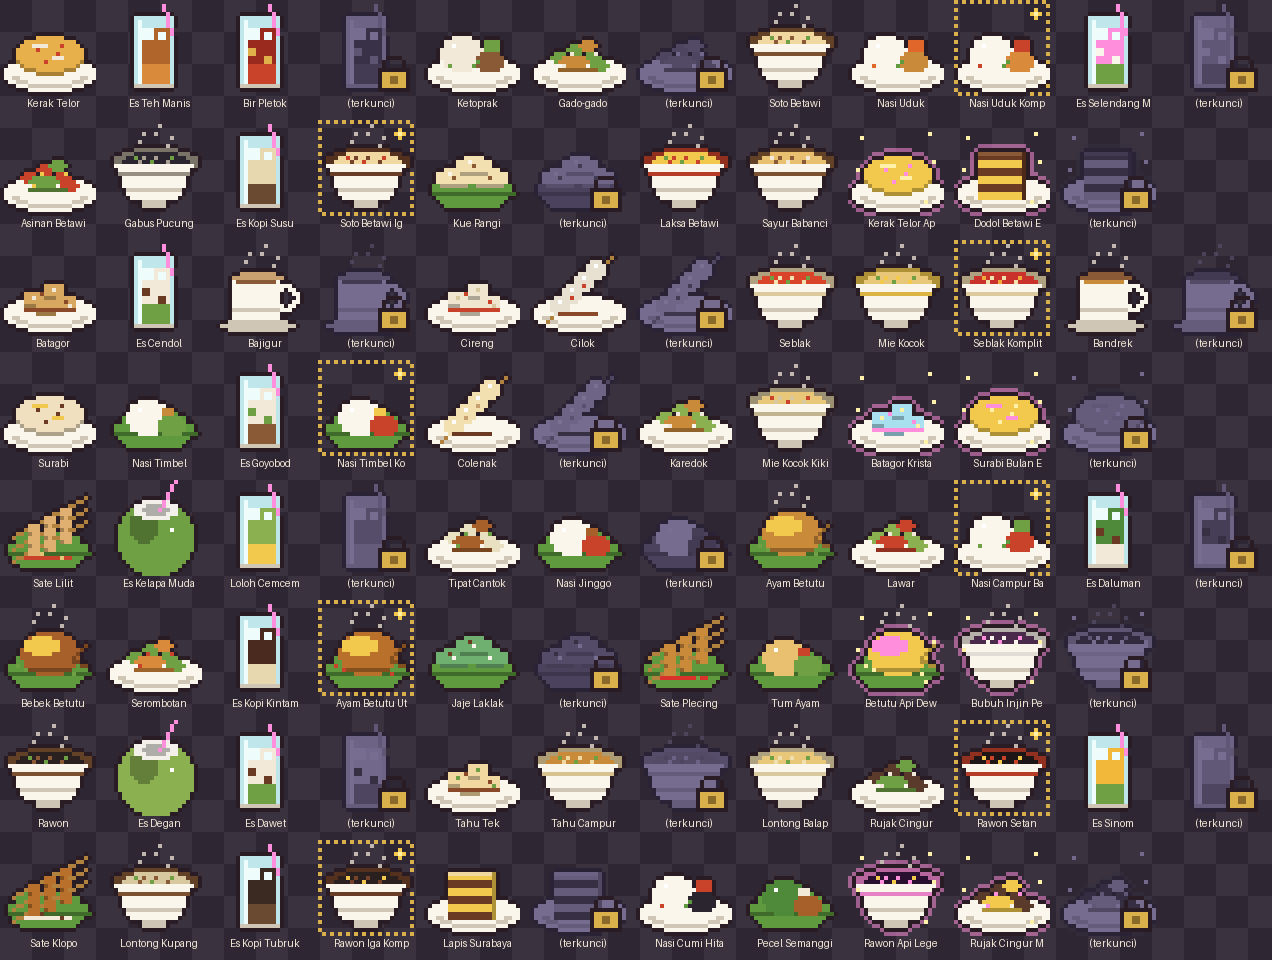
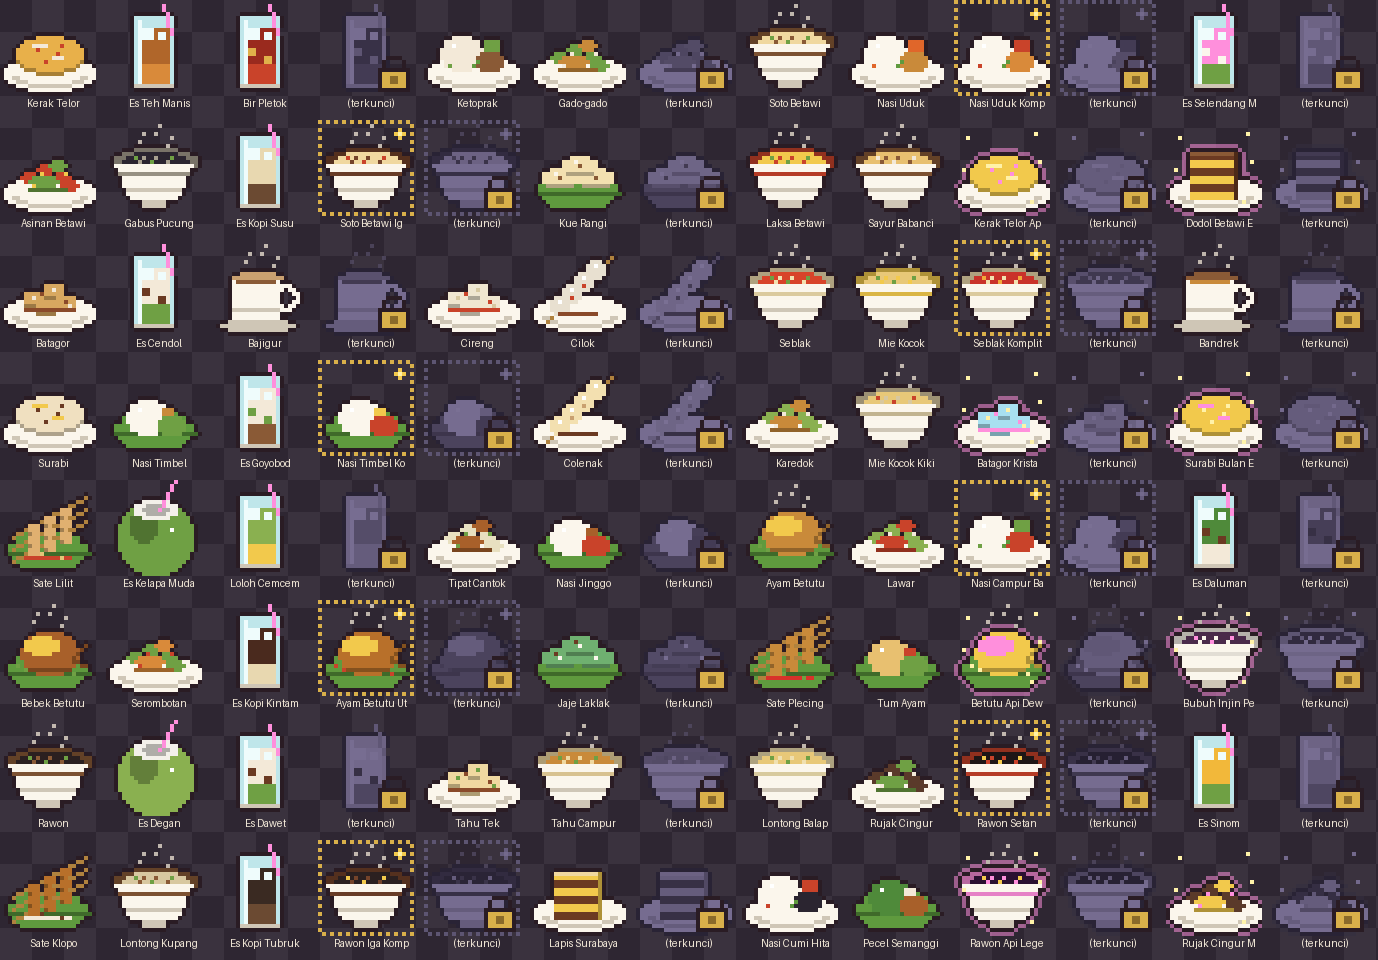
Lock all special and legendary menu items behind coins
Claude-Session: https://claude.ai/code/session_01BZFs89YAfkHhEzxPnCnTBU

diff --git a/tools/sprites/menu.py b/tools/sprites/menu.py
@@ -2,7 +2,7 @@
 
 Each stage unlocks new dishes automatically, and also offers "locked" dishes the
 player buys with coins. Stage 3+ adds a special (spesial) dish, stage 5 a
-legendary one. Combos give a bonus when both items are on the menu.
+legendary one; specials and legendaries are always coin-locked. Combos give a bonus when both items are on the menu.
 
 Fields per item:
   id, name, kind (makanan|minuman|dessert), stage, unlock ("stage" | "coins"),
@@ -16,6 +16,8 @@ M, D, S = "makanan", "minuman", "dessert"
 
 
 def item(id_, name, kind, stage, icon, unlock="stage", tier="biasa"):
+    if tier != "biasa":                     # menu spesial & legendaris selalu dibuka pakai koin
+        unlock = "coins"
     return {"id": id_, "name": name, "kind": kind, "stage": stage, "unlock": unlock,
             "tier": tier, "icon": icon}
 

diff --git a/tools/sprites/food.py b/tools/sprites/food.py
@@ -285,9 +285,9 @@ def generate():
     data = {"stage_rules": {
         "1": "1 makanan + 1 minuman terbuka; 1 minuman terkunci (koin)",
         "2": "+1 makanan; 1 makanan terkunci",
-        "3": "+2 makanan + 1 menu spesial; 1 minuman terkunci",
-        "4": "+2 makanan + 1 minuman + 1 menu spesial; 1 dessert terkunci",
-        "5": "+2 makanan + 1 menu legendaris; 1 menu legendaris terkunci",
+        "3": "+2 makanan; terkunci: 1 menu spesial + 1 minuman",
+        "4": "+2 makanan + 1 minuman; terkunci: 1 menu spesial + 1 dessert",
+        "5": "+2 makanan; terkunci: 2 menu legendaris",
     }, "cities": {}}
     rows, labels = [], []
     for ci, city in enumerate(CITY_ORDER):

diff --git a/assets/README.md b/assets/README.md
@@ -38,9 +38,11 @@ Aturan buka menu (sama untuk semua kota):
 |---|---|---|
 | 1 Gerobak | 1 makanan + 1 minuman | 1 minuman |
 | 2 Warung | +1 makanan | 1 makanan |
-| 3 Kedai | +2 makanan + 1 menu **spesial** | 1 minuman |
-| 4 Resto | +2 makanan + 1 minuman + 1 menu **spesial** | 1 dessert |
-| 5 Istana | +2 makanan + 1 menu **legendaris** | 1 menu legendaris |
+| 3 Kedai | +2 makanan | 1 menu **spesial** + 1 minuman |
+| 4 Resto | +2 makanan + 1 minuman | 1 menu **spesial** + 1 dessert |
+| 5 Istana | +2 makanan | 2 menu **legendaris** |
+
+Semua menu spesial (⭐) dan legendaris (🔥) selalu terkunci dan harus dibuka pakai koin.
 
 18 menu per kota (72 total). Icon: menu spesial punya bingkai emas + bintang, menu legendaris punya
 aura api merah muda, versi `_locked` = siluet abu-abu + gembok untuk tampilan toko.
@@ -49,9 +51,9 @@ aura api merah muda, versi `_locked` = siluet abu-abu + gembok untuk tampilan to
 |---|---|---|---|---|
 | 1 | Kerak Telor, Es Teh Manis · 🔒 Bir Pletok | Batagor, Es Cendol · 🔒 Bajigur | Sate Lilit, Es Kelapa Muda · 🔒 Loloh Cemcem | Rawon, Es Degan · 🔒 Es Dawet |
 | 2 | Ketoprak · 🔒 Gado-gado | Cireng · 🔒 Cilok | Tipat Cantok · 🔒 Nasi Jinggo | Tahu Tek · 🔒 Tahu Campur |
-| 3 | Soto Betawi, Nasi Uduk, ⭐ Nasi Uduk Komplit · 🔒 Es Selendang Mayang | Seblak, Mie Kocok, ⭐ Seblak Komplit · 🔒 Bandrek | Ayam Betutu, Lawar, ⭐ Nasi Campur Bali · 🔒 Es Daluman | Lontong Balap, Rujak Cingur, ⭐ Rawon Setan · 🔒 Es Sinom |
-| 4 | Asinan Betawi, Gabus Pucung, Es Kopi Susu, ⭐ Soto Betawi Iga · 🔒 Kue Rangi | Surabi, Nasi Timbel, Es Goyobod, ⭐ Nasi Timbel Komplit · 🔒 Colenak | Bebek Betutu, Serombotan, Es Kopi Kintamani, ⭐ Ayam Betutu Utuh · 🔒 Jaje Laklak | Sate Klopo, Lontong Kupang, Es Kopi Tubruk, ⭐ Rawon Iga Komplit · 🔒 Lapis Surabaya |
-| 5 | Laksa Betawi, Sayur Babanci, 🔥 Kerak Telor Api Legenda · 🔒🔥 Dodol Betawi Emas | Karedok, Mie Kocok Kikil, 🔥 Batagor Kristal Tangkuban · 🔒🔥 Surabi Bulan Emas | Sate Plecing, Tum Ayam, 🔥 Betutu Api Dewata · 🔒🔥 Bubuh Injin Pelangi | Nasi Cumi Hitam, Pecel Semanggi, 🔥 Rawon Api Legenda · 🔒🔥 Rujak Cingur Mahkota |
+| 3 | Soto Betawi, Nasi Uduk, 🔒⭐ Nasi Uduk Komplit · 🔒 Es Selendang Mayang | Seblak, Mie Kocok, 🔒⭐ Seblak Komplit · 🔒 Bandrek | Ayam Betutu, Lawar, 🔒⭐ Nasi Campur Bali · 🔒 Es Daluman | Lontong Balap, Rujak Cingur, 🔒⭐ Rawon Setan · 🔒 Es Sinom |
+| 4 | Asinan Betawi, Gabus Pucung, Es Kopi Susu, 🔒⭐ Soto Betawi Iga · 🔒 Kue Rangi | Surabi, Nasi Timbel, Es Goyobod, 🔒⭐ Nasi Timbel Komplit · 🔒 Colenak | Bebek Betutu, Serombotan, Es Kopi Kintamani, 🔒⭐ Ayam Betutu Utuh · 🔒 Jaje Laklak | Sate Klopo, Lontong Kupang, Es Kopi Tubruk, 🔒⭐ Rawon Iga Komplit · 🔒 Lapis Surabaya |
+| 5 | Laksa Betawi, Sayur Babanci, 🔒🔥 Kerak Telor Api Legenda · 🔒🔥 Dodol Betawi Emas | Karedok, Mie Kocok Kikil, 🔒🔥 Batagor Kristal Tangkuban · 🔒🔥 Surabi Bulan Emas | Sate Plecing, Tum Ayam, 🔒🔥 Betutu Api Dewata · 🔒🔥 Bubuh Injin Pelangi | Nasi Cumi Hitam, Pecel Semanggi, 🔒🔥 Rawon Api Legenda · 🔒🔥 Rujak Cingur Mahkota |
 
 ⭐ = spesial, 🔥 = legendaris, 🔒 = dibuka pakai koin.
 
